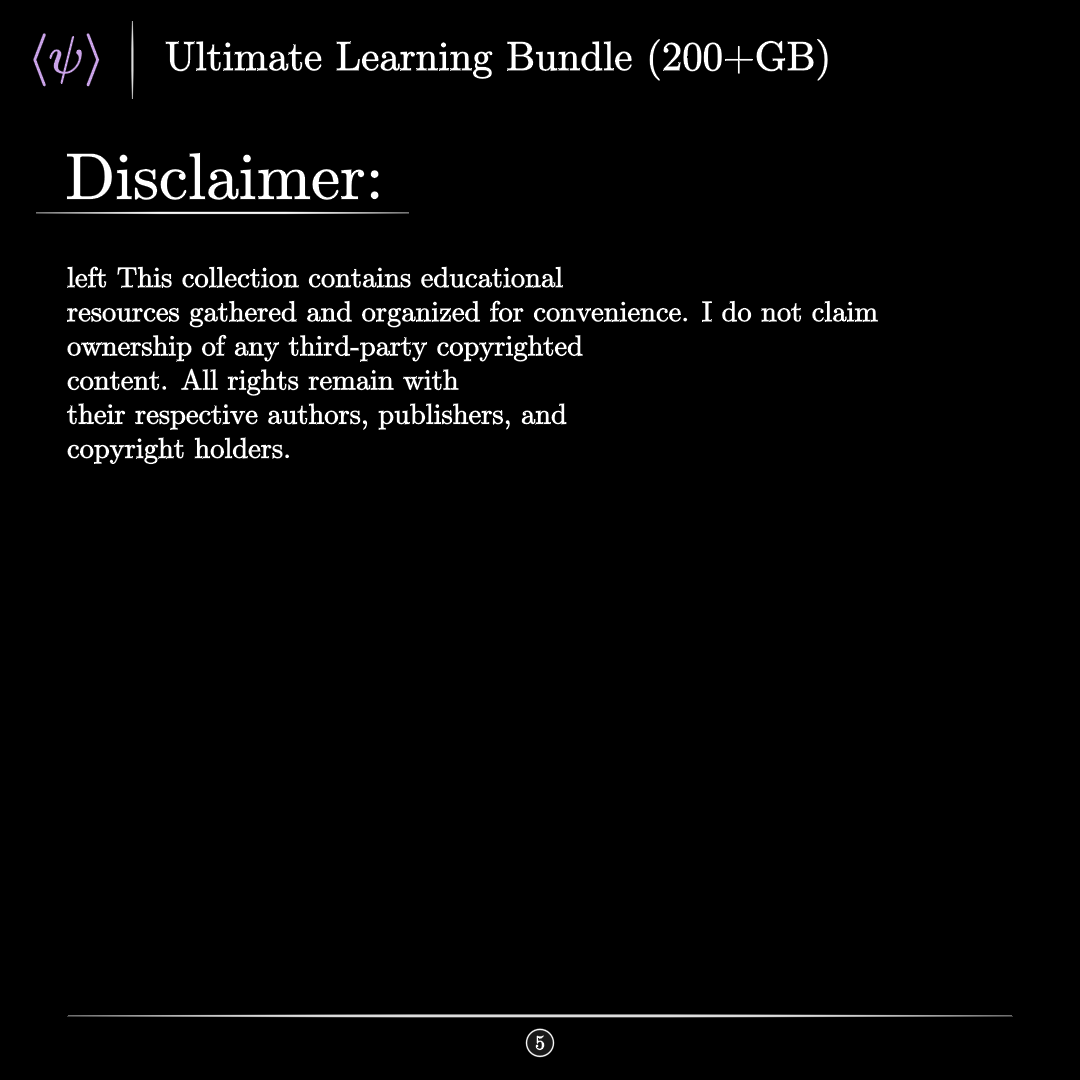
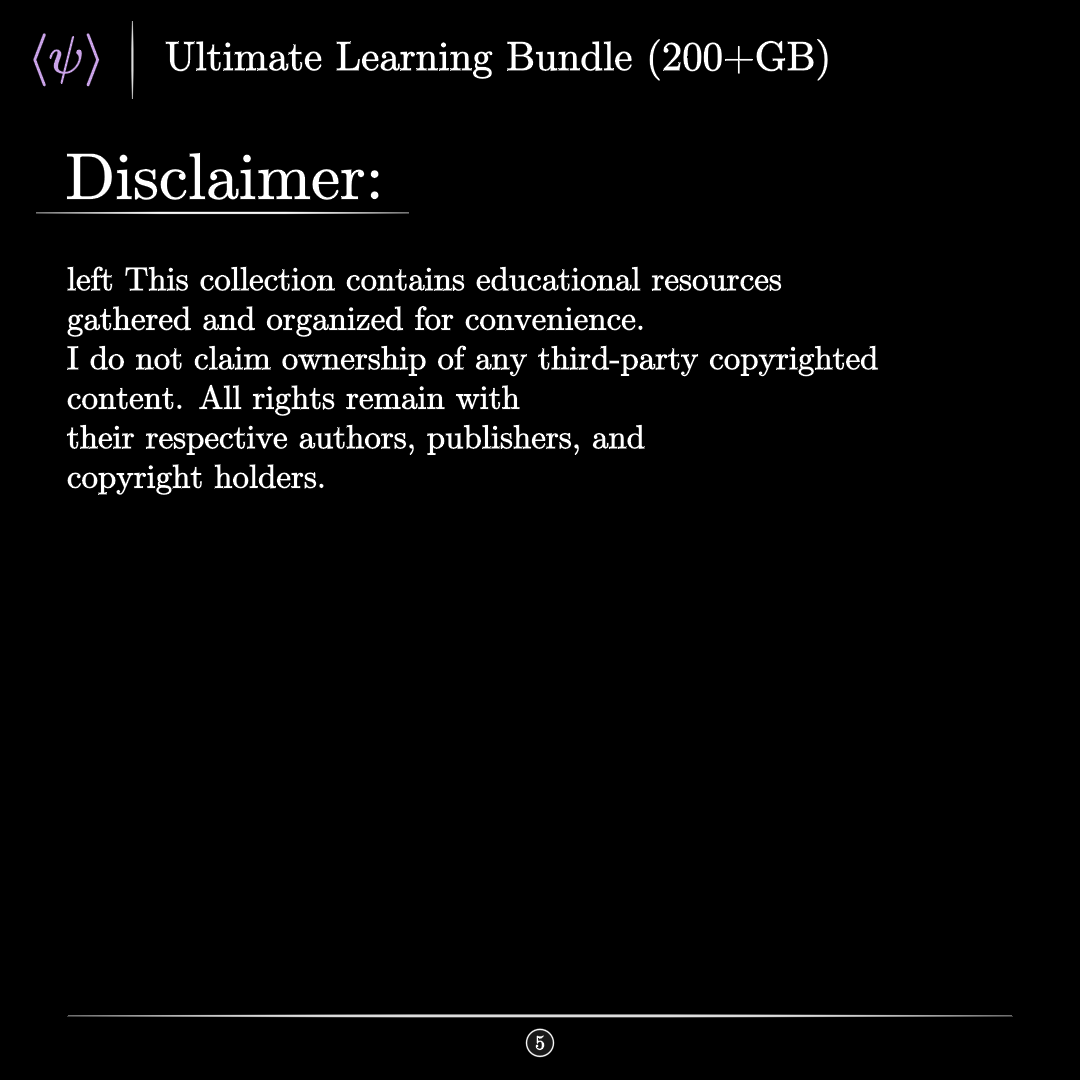
f

Changed region(s): [[0.0611, 0.2444, 0.825, 0.4583]]

diff --git a/test.py b/test.py
@@ -243,8 +243,8 @@ class Dis(PaidTemplate):
         self.add(t, under)
         dis = TexText(
             R"""
-            This collection contains educational \\resources gathered and organized
-            for convenience. I do not claim\\ ownership of any third-party copyrighted\\
+            This collection contains educational resources \\gathered and organized
+            for convenience.\\ I do not claim ownership of any third-party copyrighted\\
             content. All rights remain with\\ their respective authors, publishers,
             and \\copyright holders.
             """, alignment="left"
